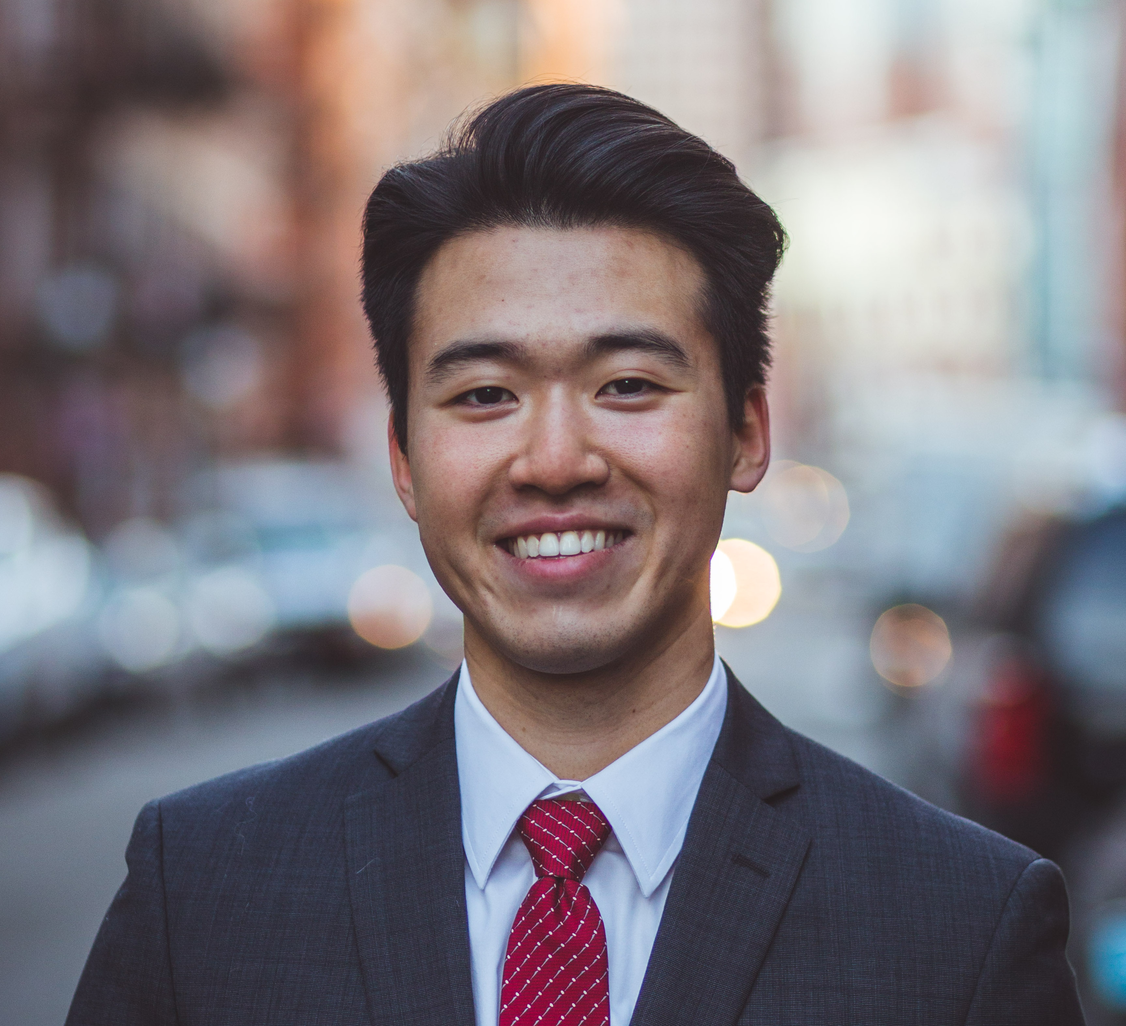
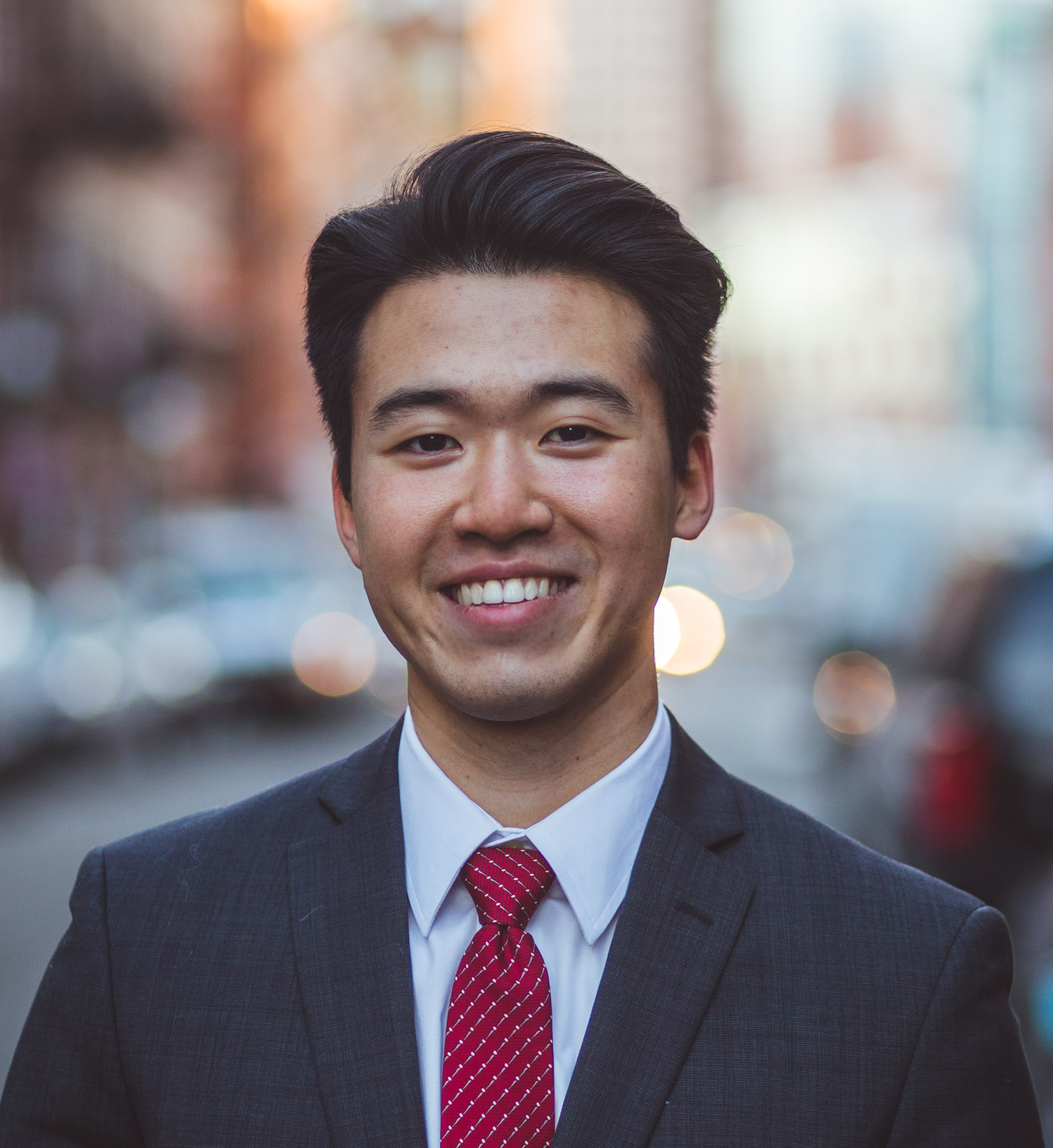
push4
change front page and side image

diff --git a/_pages/about.md b/_pages/about.md
@@ -1,6 +1,6 @@
 ---
 permalink: /
-title: "academicpages is a ready-to-fork GitHub Pages template for academic personal websites"
+title: "About Andy Kim"
 excerpt: "About me"
 author_profile: true
 redirect_from: 
@@ -8,43 +8,9 @@ redirect_from:
   - /about.html
 ---
 
-This is the front page of a website that is powered by the [academicpages template](https://github.com/academicpages/academicpages.github.io) and hosted on GitHub pages. [GitHub pages](https://pages.github.com) is a free service in which websites are built and hosted from code and data stored in a GitHub repository, automatically updating when a new commit is made to the respository. This template was forked from the [Minimal Mistakes Jekyll Theme](https://mmistakes.github.io/minimal-mistakes/) created by Michael Rose, and then extended to support the kinds of content that academics have: publications, talks, teaching, a portfolio, blog posts, and a dynamically-generated CV. You can fork [this repository](https://github.com/academicpages/academicpages.github.io) right now, modify the configuration and markdown files, add your own PDFs and other content, and have your own site for free, with no ads! An older version of this template powers my own personal website at [stuartgeiger.com](http://stuartgeiger.com), which uses [this Github repository](https://github.com/staeiou/staeiou.github.io).
+I’m a first-year medical student, writing about my journey in medical school.
 
-A data-driven personal website
-======
-Like many other Jekyll-based GitHub Pages templates, academicpages makes you separate the website's content from its form. The content & metadata of your website are in structured markdown files, while various other files constitute the theme, specifying how to transform that content & metadata into HTML pages. You keep these various markdown (.md), YAML (.yml), HTML, and CSS files in a public GitHub repository. Each time you commit and push an update to the repository, the [GitHub pages](https://pages.github.com/) service creates static HTML pages based on these files, which are hosted on GitHub's servers free of charge.
+I’m pursuing a career in internal medicine, perhaps in a medical subspecialty. I’m also interested in research and teaching.
 
-Many of the features of dynamic content management systems (like Wordpress) can be achieved in this fashion, using a fraction of the computational resources and with far less vulnerability to hacking and DDoSing. You can also modify the theme to your heart's content without touching the content of your site. If you get to a point where you've broken something in Jekyll/HTML/CSS beyond repair, your markdown files describing your talks, publications, etc. are safe. You can rollback the changes or even delete the repository and start over -- just be sure to save the markdown files! Finally, you can also write scripts that process the structured data on the site, such as [this one](https://github.com/academicpages/academicpages.github.io/blob/master/talkmap.ipynb) that analyzes metadata in pages about talks to display [a map of every location you've given a talk](https://academicpages.github.io/talkmap.html).
+Outside of school, you’ll find me watching sports, playing chess, reading, or just hanging out with friends.
 
-Getting started
-======
-1. Register a GitHub account if you don't have one and confirm your e-mail (required!)
-1. Fork [this repository](https://github.com/academicpages/academicpages.github.io) by clicking the "fork" button in the top right. 
-1. Go to the repository's settings (rightmost item in the tabs that start with "Code", should be below "Unwatch"). Rename the repository "[your GitHub username].github.io", which will also be your website's URL.
-1. Set site-wide configuration and create content & metadata (see below -- also see [this set of diffs](http://archive.is/3TPas) showing what files were changed to set up [an example site](https://getorg-testacct.github.io) for a user with the username "getorg-testacct")
-1. Upload any files (like PDFs, .zip files, etc.) to the files/ directory. They will appear at https://[your GitHub username].github.io/files/example.pdf.  
-1. Check status by going to the repository settings, in the "GitHub pages" section
-
-Site-wide configuration
-------
-The main configuration file for the site is in the base directory in [_config.yml](https://github.com/academicpages/academicpages.github.io/blob/master/_config.yml), which defines the content in the sidebars and other site-wide features. You will need to replace the default variables with ones about yourself and your site's github repository. The configuration file for the top menu is in [_data/navigation.yml](https://github.com/academicpages/academicpages.github.io/blob/master/_data/navigation.yml). For example, if you don't have a portfolio or blog posts, you can remove those items from that navigation.yml file to remove them from the header. 
-
-Create content & metadata
-------
-For site content, there is one markdown file for each type of content, which are stored in directories like _publications, _talks, _posts, _teaching, or _pages. For example, each talk is a markdown file in the [_talks directory](https://github.com/academicpages/academicpages.github.io/tree/master/_talks). At the top of each markdown file is structured data in YAML about the talk, which the theme will parse to do lots of cool stuff. The same structured data about a talk is used to generate the list of talks on the [Talks page](https://academicpages.github.io/talks), each [individual page](https://academicpages.github.io/talks/2012-03-01-talk-1) for specific talks, the talks section for the [CV page](https://academicpages.github.io/cv), and the [map of places you've given a talk](https://academicpages.github.io/talkmap.html) (if you run this [python file](https://github.com/academicpages/academicpages.github.io/blob/master/talkmap.py) or [Jupyter notebook](https://github.com/academicpages/academicpages.github.io/blob/master/talkmap.ipynb), which creates the HTML for the map based on the contents of the _talks directory).
-
-**Markdown generator**
-
-I have also created [a set of Jupyter notebooks](https://github.com/academicpages/academicpages.github.io/tree/master/markdown_generator
-) that converts a CSV containing structured data about talks or presentations into individual markdown files that will be properly formatted for the academicpages template. The sample CSVs in that directory are the ones I used to create my own personal website at stuartgeiger.com. My usual workflow is that I keep a spreadsheet of my publications and talks, then run the code in these notebooks to generate the markdown files, then commit and push them to the GitHub repository.
-
-How to edit your site's GitHub repository
-------
-Many people use a git client to create files on their local computer and then push them to GitHub's servers. If you are not familiar with git, you can directly edit these configuration and markdown files directly in the github.com interface. Navigate to a file (like [this one](https://github.com/academicpages/academicpages.github.io/blob/master/_talks/2012-03-01-talk-1.md) and click the pencil icon in the top right of the content preview (to the right of the "Raw | Blame | History" buttons). You can delete a file by clicking the trashcan icon to the right of the pencil icon. You can also create new files or upload files by navigating to a directory and clicking the "Create new file" or "Upload files" buttons. 
-
-Example: editing a markdown file for a talk
-![Editing a markdown file for a talk](/images/editing-talk.png)
-
-For more info
-------
-More info about configuring academicpages can be found in [the guide](https://academicpages.github.io/markdown/). The [guides for the Minimal Mistakes theme](https://mmistakes.github.io/minimal-mistakes/docs/configuration/) (which this theme was forked from) might also be helpful.
